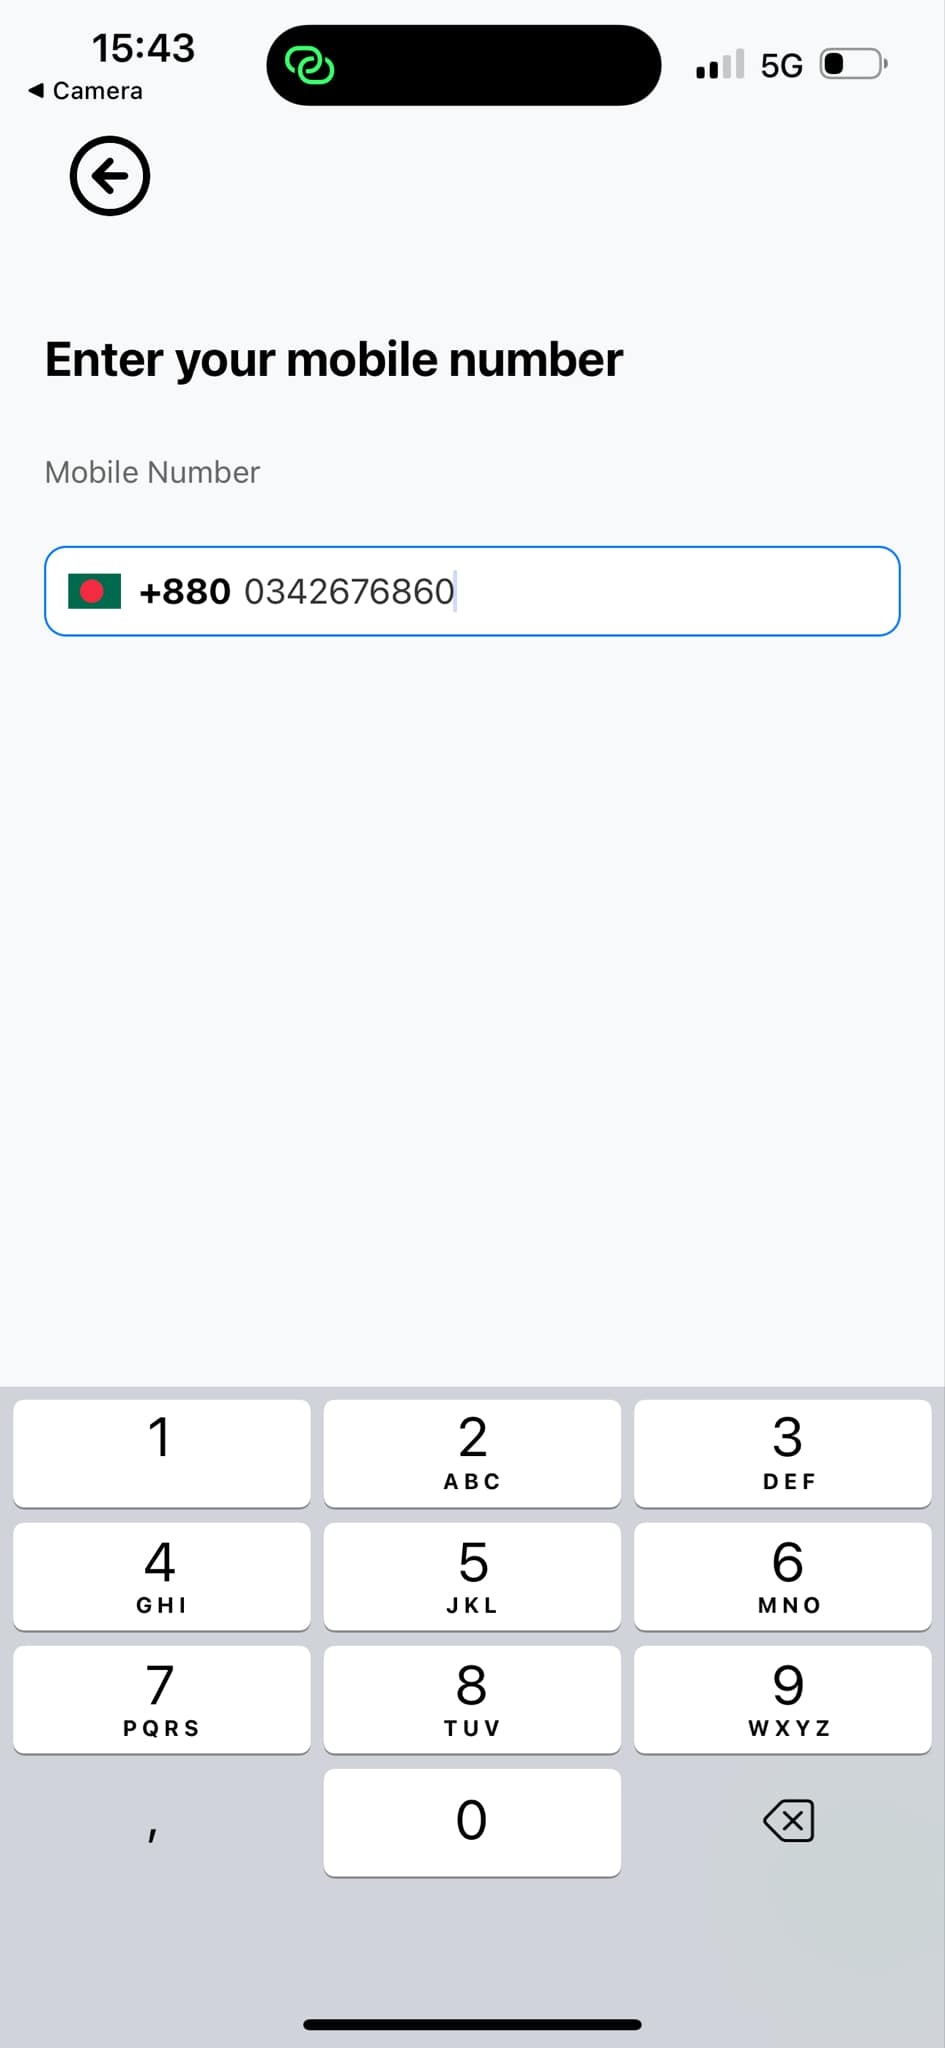
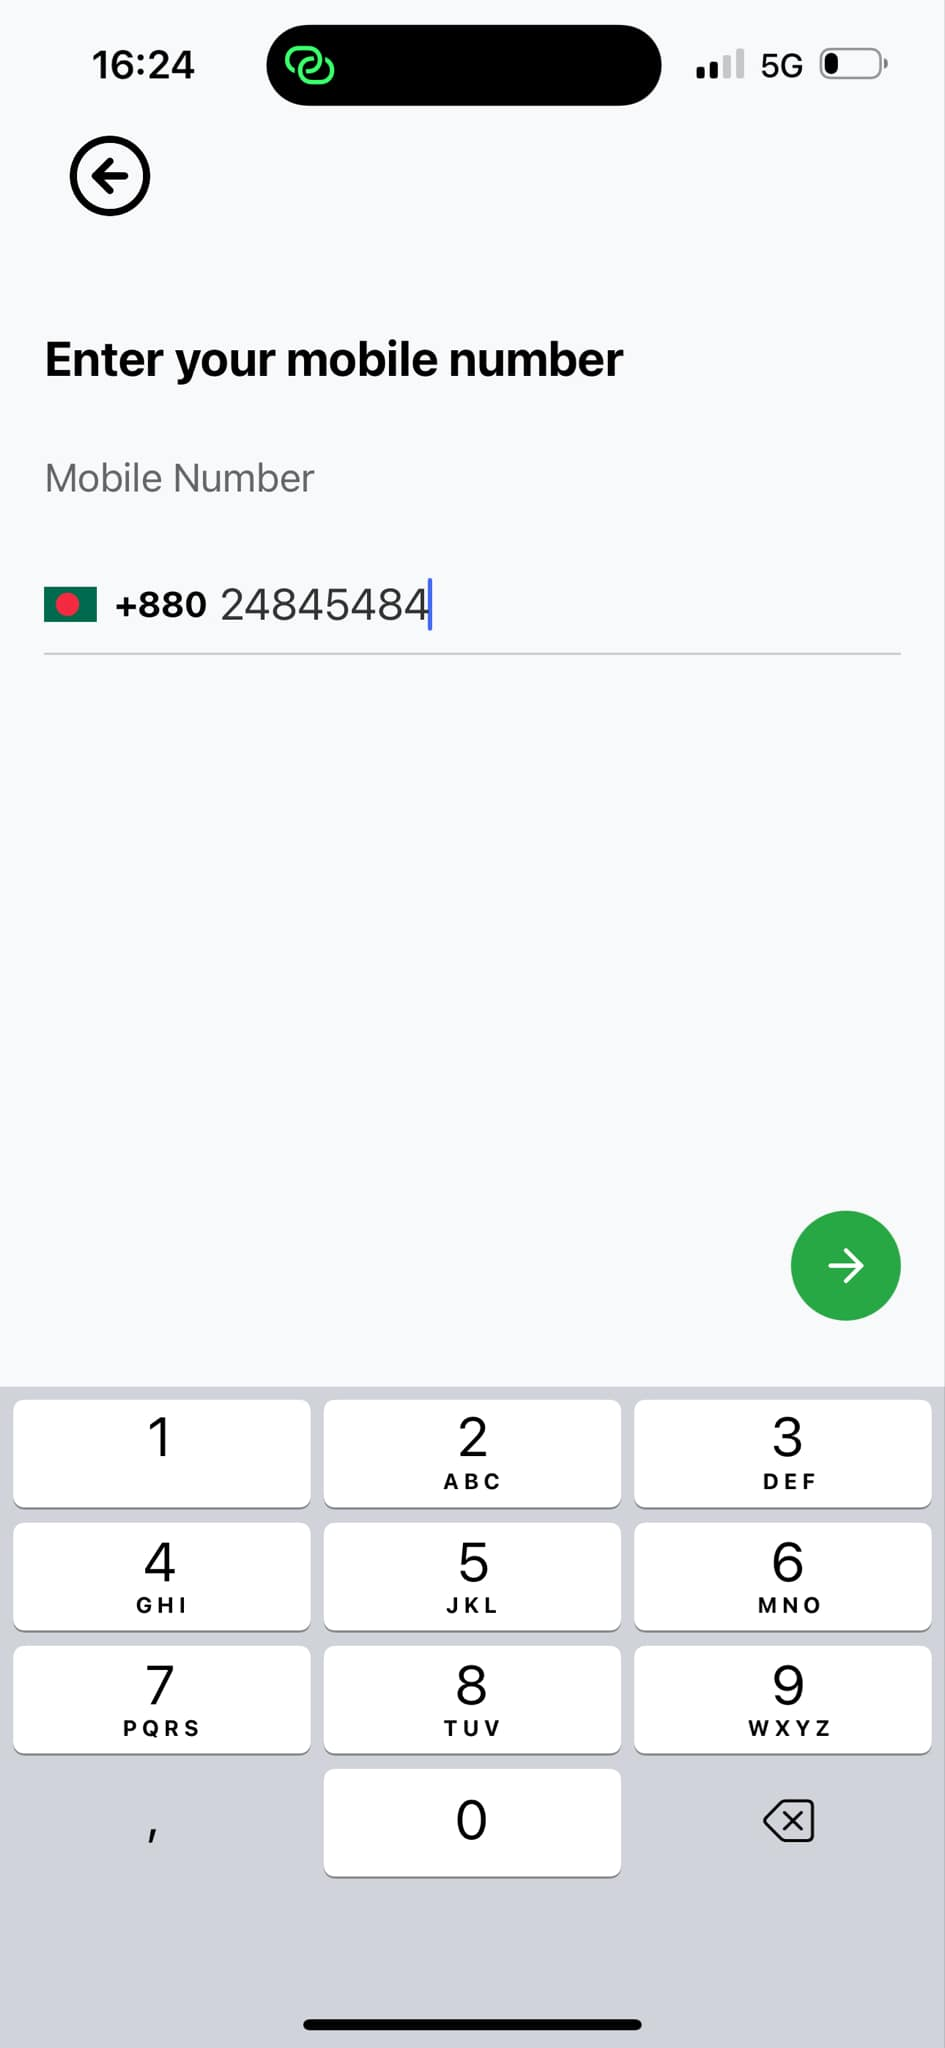
thực hành

diff --git a/Screen/NumberScreen.js b/Screen/NumberScreen.js
@@ -1,5 +1,5 @@
 import { useState } from "react";
-import { StyleSheet, Text, View, Image, TextInput, TouchableOpacity, Keyboard, TouchableWithoutFeedback } from "react-native";
+import { StyleSheet, Text, View, Image, TextInput, TouchableOpacity, Keyboard, TouchableWithoutFeedback, KeyboardAvoidingView, Platform } from "react-native";
 import { CircleArrowLeft, ArrowRight } from "lucide-react-native";
 
 export default function NumberScreen({ navigation }) {
@@ -7,50 +7,54 @@ export default function NumberScreen({ navigation }) {
     const [isFocused, setIsFocused] = useState(false);
 
     return (
-        <TouchableWithoutFeedback onPress={Keyboard.dismiss}>
-            <View style={styles.container}>
+        <KeyboardAvoidingView
+            behavior={Platform.OS === "ios" ? "padding" : "height"}
+            style={{ flex: 1 }}
+        >
+            <TouchableWithoutFeedback onPress={Keyboard.dismiss}>
+                <View style={styles.container}>
 
-                {/* Nút Back */}
-                <TouchableOpacity style={styles.backButton} onPress={() => { navigation.goBack() }}>
-                    <CircleArrowLeft size={40} color="black" />
-                </TouchableOpacity>
-
-                {/* Tiêu đề */}
-                <Text style={styles.title}>Enter your mobile number</Text>
-                <Text style={styles.label}>Mobile Number</Text>
-
-                {/* Ô nhập số điện thoại */}
-                <View style={[styles.inputContainer, isFocused && styles.inputFocused]}>
-                    {/* Cờ Bangladesh */}
-                    <Image
-                        source={{ uri: "https://s3-alpha-sig.figma.com/img/41cc/144b/fb38ac5a94c5de8628b3bed5259fb5f1?Expires=1742169600&Key-Pair-Id=APKAQ4GOSFWCW27IBOMQ&Signature=DJkBdNFGX~ZTTw2B72sQBYfIP1QTSQObzmqfy4reEgIdzhaeSY0pmSfkxyHv00QX1D2Ij2qAC4MpAX~jswfP2HUoUmoGSCjI8xEZVemrA3cXS4mSgmfulZrVEaei816qdNrjTab9U5-K8l9EfVLFLTwCAHwh14Cf4KMyPJ3qScoSpLKYHu25AWWV3oz-wdt~-a4jM2ZoWcdpwzPOux50awHO-roKUMQ7SQXAp0XN0dVqU74muBaE3jAnyUKsSA0aY0QE~dT7r1SEFgDaftXKa6HQyvAIyhUfLyGmk3x15GFj06FXovX~tg93uObczaqLKftQT5esn5Z8CvzSXctCDw__" }}
-                        style={styles.flagIcon}
-                    />
-                    {/* Mã quốc gia cố định */}
-                    <Text style={styles.countryCode}>+880</Text>
-                    {/* Ô nhập số */}
-                    <TextInput
-                        style={styles.textInput}
-                        keyboardType="numeric"
-                        maxLength={10} // Giới hạn số ký tự
-                        placeholder="Enter number"
-                        placeholderTextColor="#999"
-                        onFocus={() => setIsFocused(true)}
-                        onBlur={() => setIsFocused(false)}
-                        value={phoneNumber}
-                        onChangeText={setPhoneNumber}
-                    />
-                </View>
-
-                {/* Nút chuyển tiếp */}
-                {phoneNumber.length > 0 && (
-                    <TouchableOpacity style={styles.nextButton} onPress={() => navigation.navigate("VerificationScreen")}>
-                        <ArrowRight size={24} color="white" />
+                    {/* Nút Back */}
+                    <TouchableOpacity style={styles.backButton} onPress={() => { navigation.goBack() }}>
+                        <CircleArrowLeft size={40} color="black" />
                     </TouchableOpacity>
-                )}
 
-            </View>
-        </TouchableWithoutFeedback>
+                    {/* Tiêu đề */}
+                    <Text style={styles.title}>Enter your mobile number</Text>
+                    <Text style={styles.label}>Mobile Number</Text>
+
+                    {/* Ô nhập số điện thoại */}
+                    <View style={[styles.inputContainer, isFocused && styles.inputFocused]}>
+                        {/* Cờ Bangladesh */}
+                        <Image
+                            source={{ uri: "https://s3-alpha-sig.figma.com/img/41cc/144b/fb38ac5a94c5de8628b3bed5259fb5f1?Expires=1742169600&Key-Pair-Id=APKAQ4GOSFWCW27IBOMQ&Signature=DJkBdNFGX~ZTTw2B72sQBYfIP1QTSQObzmqfy4reEgIdzhaeSY0pmSfkxyHv00QX1D2Ij2qAC4MpAX~jswfP2HUoUmoGSCjI8xEZVemrA3cXS4mSgmfulZrVEaei816qdNrjTab9U5-K8l9EfVLFLTwCAHwh14Cf4KMyPJ3qScoSpLKYHu25AWWV3oz-wdt~-a4jM2ZoWcdpwzPOux50awHO-roKUMQ7SQXAp0XN0dVqU74muBaE3jAnyUKsSA0aY0QE~dT7r1SEFgDaftXKa6HQyvAIyhUfLyGmk3x15GFj06FXovX~tg93uObczaqLKftQT5esn5Z8CvzSXctCDw__" }}
+                            style={styles.flagIcon}
+                        />
+                        {/* Mã quốc gia cố định */}
+                        <Text style={styles.countryCode}>+880</Text>
+                        {/* Ô nhập số */}
+                        <TextInput
+                            style={styles.textInput}
+                            keyboardType="numeric"
+                            maxLength={10}
+                            placeholderTextColor="#999"
+                            onFocus={() => setIsFocused(true)}
+                            onBlur={() => setIsFocused(false)}
+                            value={phoneNumber}
+                            onChangeText={setPhoneNumber}
+                        />
+                    </View>
+
+                    {/* Nút chuyển tiếp */}
+                    {phoneNumber.length > 0 && (
+                        <TouchableOpacity style={styles.nextButton} onPress={() => navigation.navigate("VerificationScreen")}>
+                            <ArrowRight size={24} color="white" />
+                        </TouchableOpacity>
+                    )}
+
+                </View>
+            </TouchableWithoutFeedback>
+        </KeyboardAvoidingView>
     );
 }
 
@@ -75,7 +79,7 @@ const styles = StyleSheet.create({
         paddingBottom: 20
     },
     label: {
-        fontSize: 14,
+        fontSize: 18,
         color: "#666",
         marginBottom: 5,
         paddingBottom: 20
@@ -83,11 +87,10 @@ const styles = StyleSheet.create({
     inputContainer: {
         flexDirection: "row",
         alignItems: "center",
-        borderWidth: 1,
-        borderColor: "#ccc",
-        borderRadius: 10,
-        padding: 10,
-        backgroundColor: "white",
+        borderBottomColor: "#ccc",
+        borderBottomWidth: 1,
+        paddingVertical: 10,
+
     },
     inputFocused: {
         borderColor: "#007AFF",
@@ -104,13 +107,13 @@ const styles = StyleSheet.create({
     },
     textInput: {
         flex: 1,
-        fontSize: 16,
+        fontSize: 20,
         color: "#333",
     },
     nextButton: {
         position: "absolute",
         right: 20,
-        bottom: 50,
+        bottom: 30,
         backgroundColor: "#28A745",
         width: 50,
         height: 50,

diff --git a/Screen/VerificationScreen.js b/Screen/VerificationScreen.js
@@ -35,16 +35,18 @@ export default function VerificationScreen({ navigation }) {
                 />
 
                 {/* Nút gửi lại mã */}
-                <TouchableOpacity>
-                    <Text style={styles.resendText}>Resend Code</Text>
-                </TouchableOpacity>
-
-                {/* Nút tiếp tục */}
-                {otp.length === 4 && (
-                    <TouchableOpacity style={styles.nextButton}>
-                        <ArrowRight size={24} color="white" />
+                <View style={styles.buttonContainer}>
+                    <TouchableOpacity>
+                        <Text style={styles.resendText}>Resend Code</Text>
                     </TouchableOpacity>
-                )}
+                    {otp.length === 4 && (
+                        <TouchableOpacity style={styles.nextButton}>
+                            <ArrowRight size={24} color="white" />
+                        </TouchableOpacity>
+                    )}
+                </View>
+
+
 
             </View>
         </TouchableWithoutFeedback>
@@ -98,16 +100,21 @@ const styles = StyleSheet.create({
         height: 1,
         opacity: 0,
     },
+    buttonContainer: {
+        flexDirection: "row",
+        justifyContent: "space-between",
+        alignItems: "center",
+        paddingHorizontal: 20, // Thêm khoảng cách hai bên
+        marginTop: 20, // Điều chỉnh vị trí
+    },
+
     resendText: {
         textAlign: "center",
         color: "#28A745",
-        fontSize: 14,
+        fontSize: 16,
         marginTop: 20,
     },
     nextButton: {
-        position: "absolute",
-        right: 20,
-        bottom: 50,
         backgroundColor: "#28A745",
         width: 50,
         height: 50,
